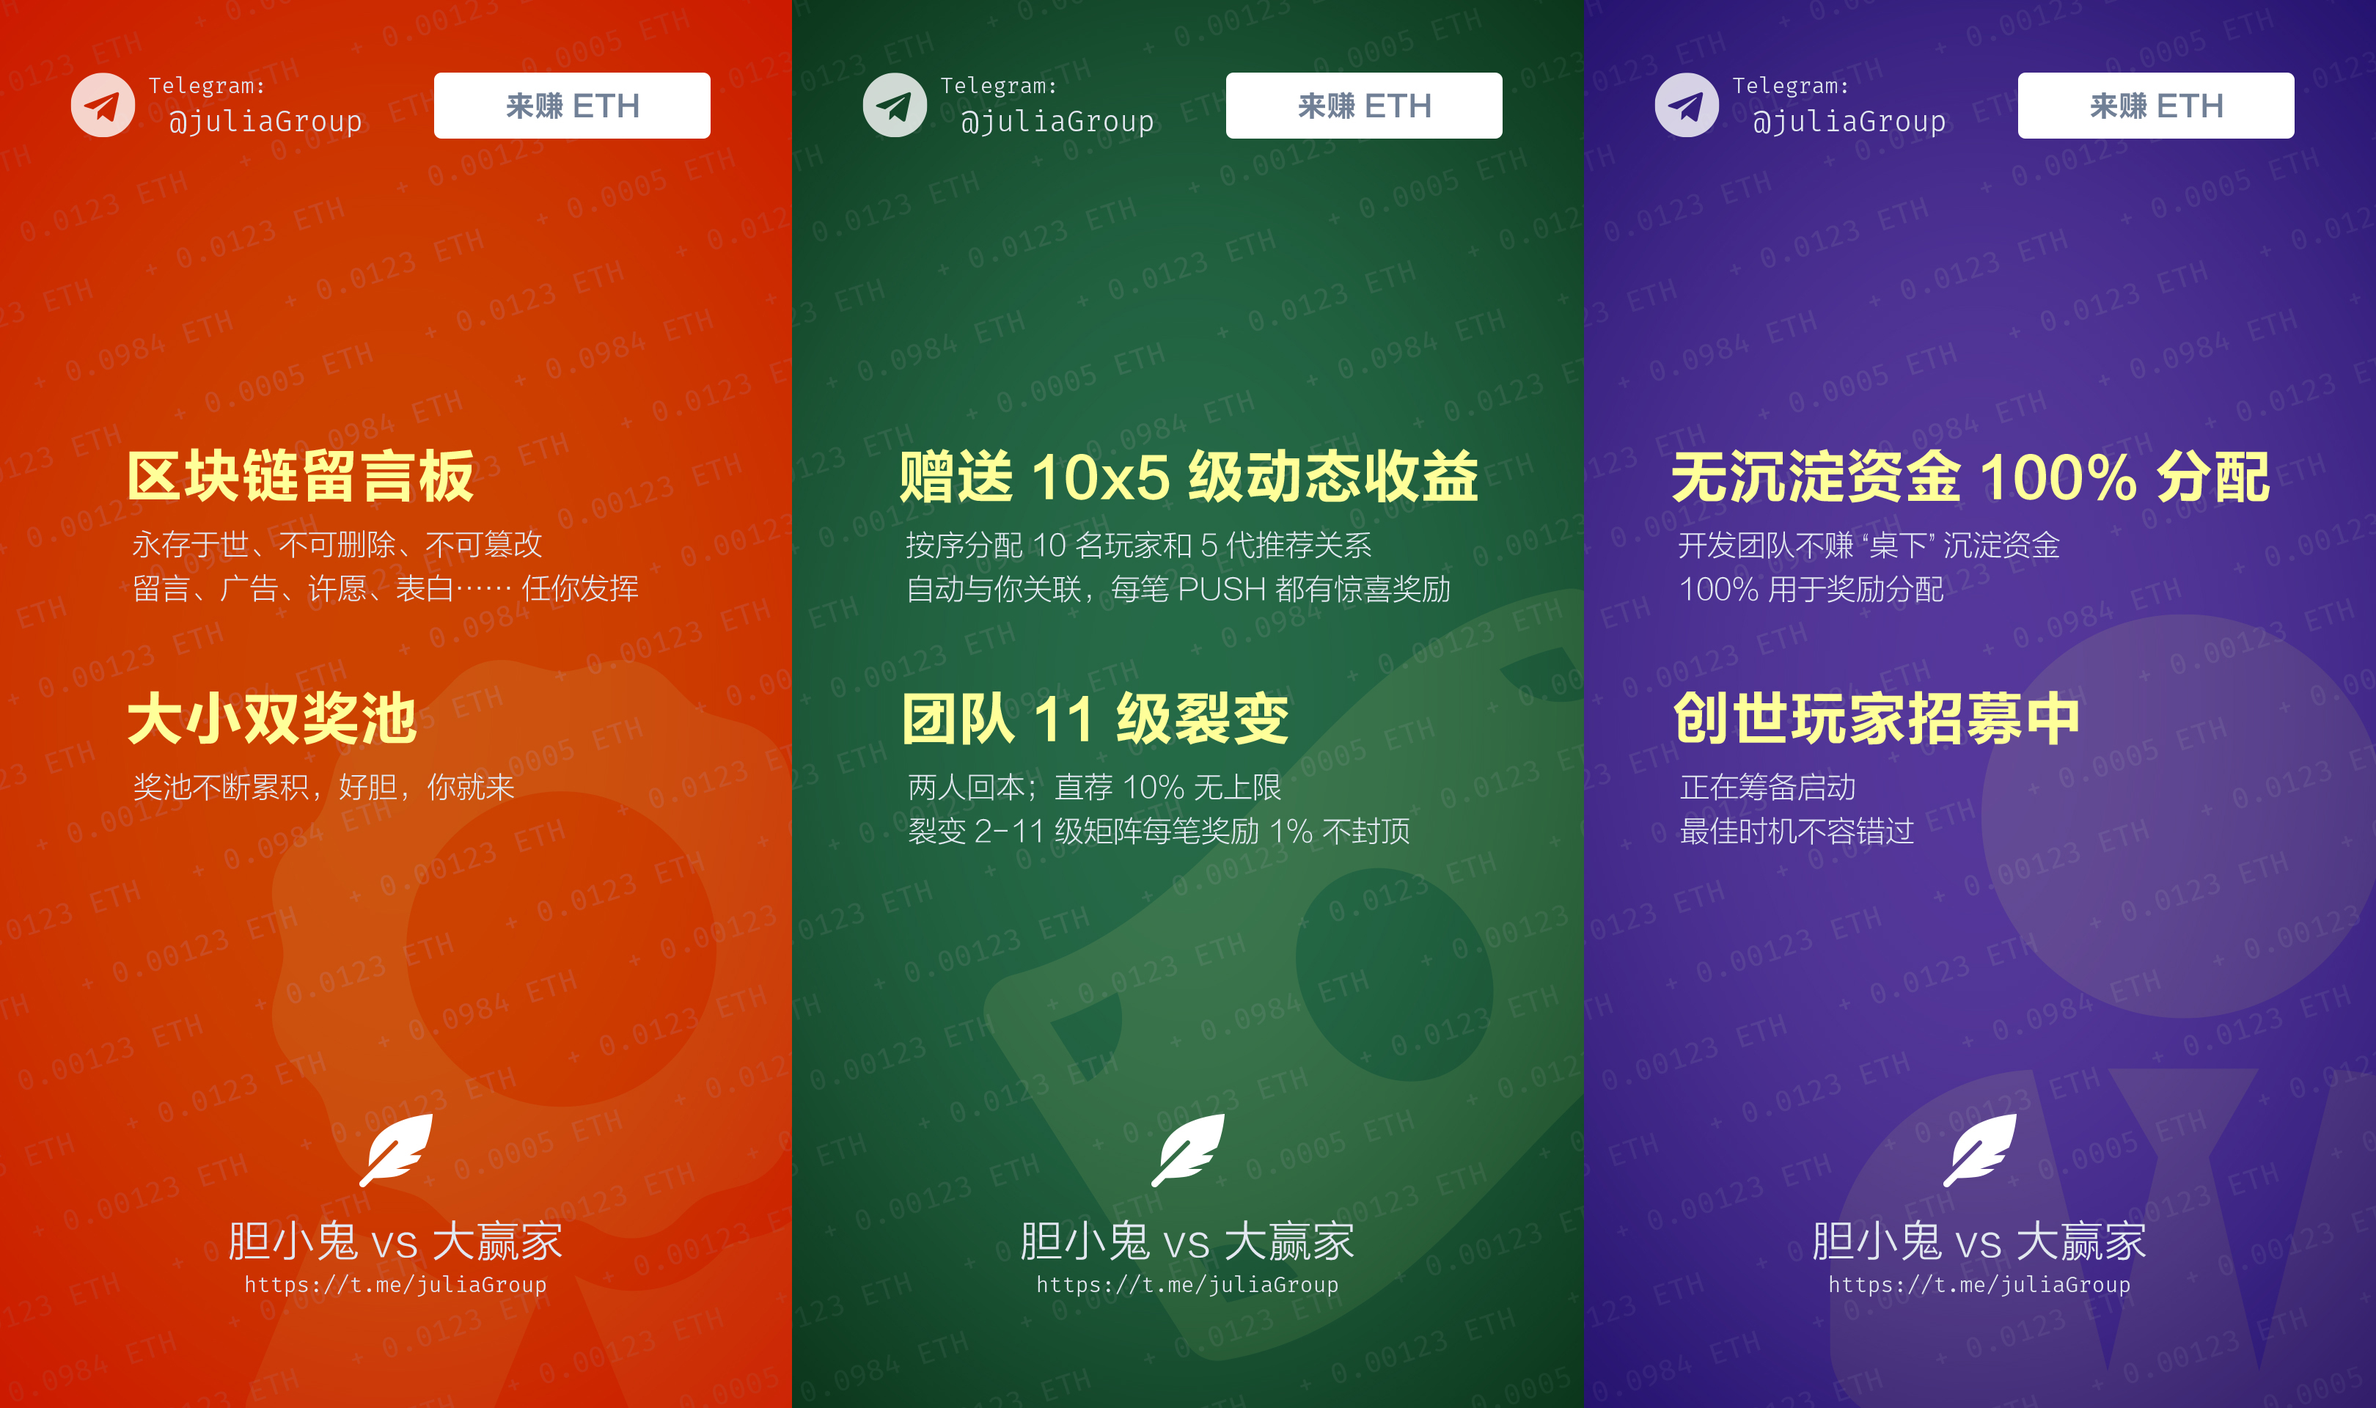
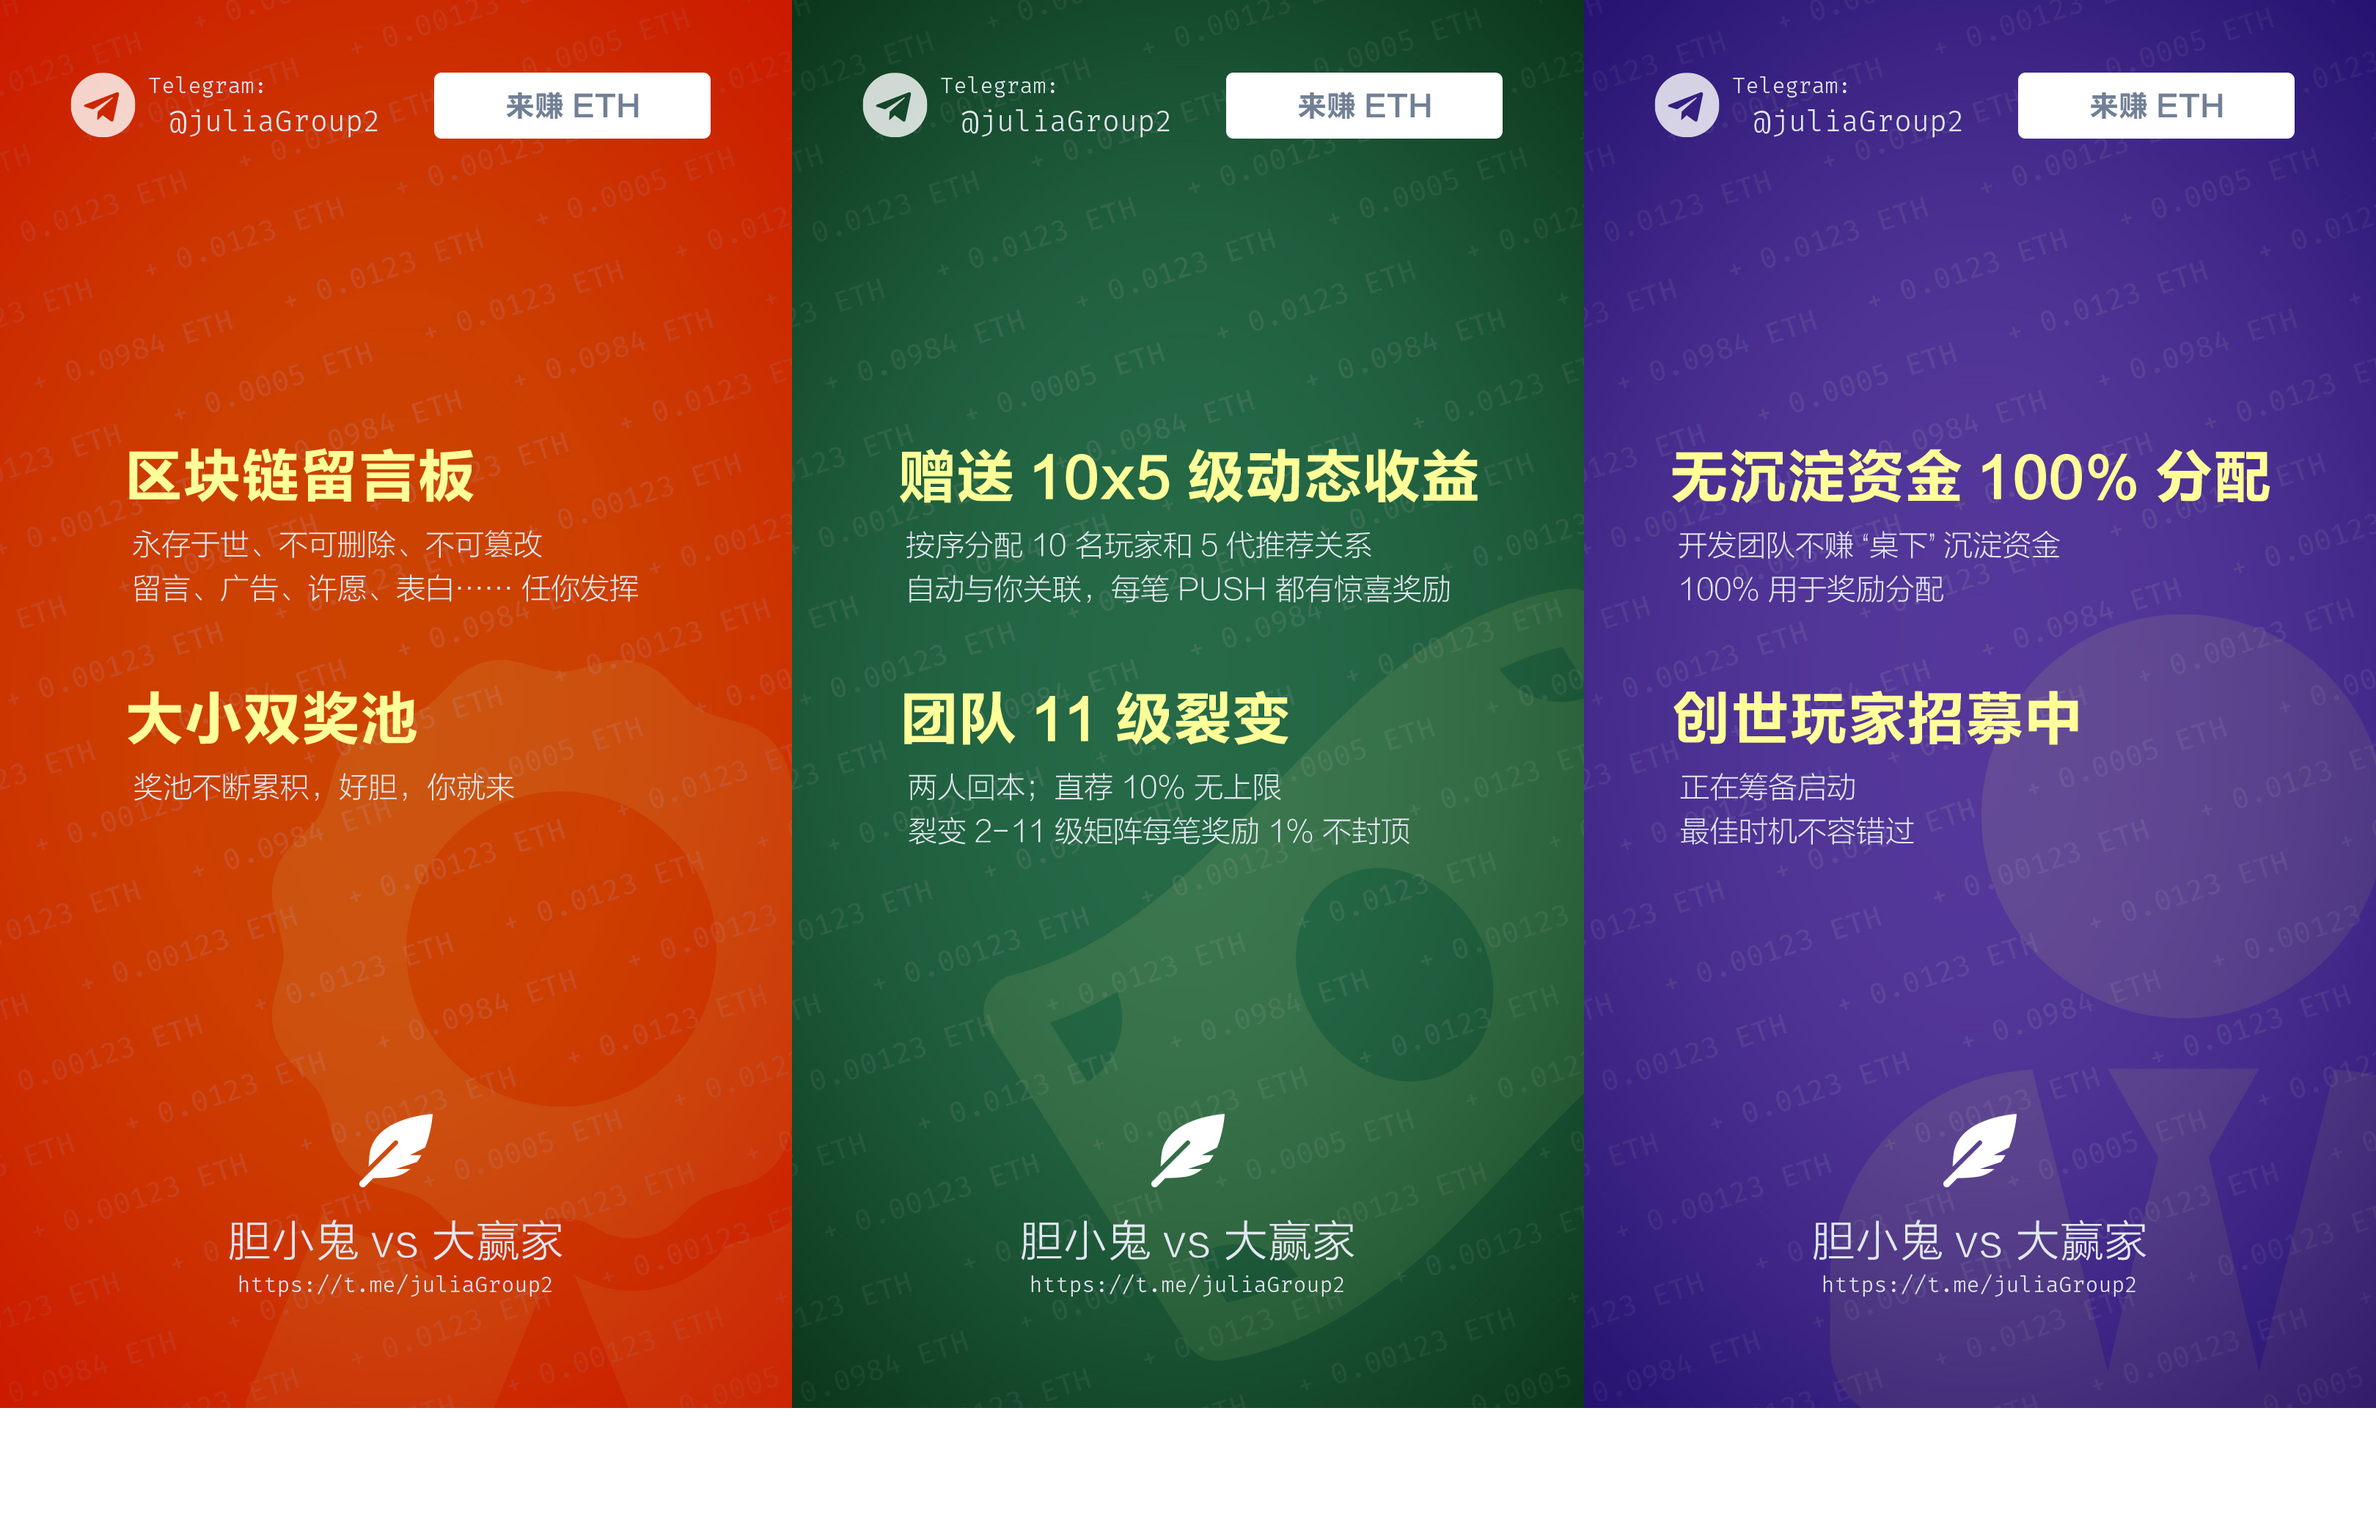
updated: ad

diff --git a/ad.md b/ad.md
@@ -6,30 +6,37 @@ tagline: 定案后再开始投放
 
 ## 海报
 
-![pop3in1](/assets/pops/pop3in1b.jpg)
+![pop3in1](/assets/pops/pop3in1b.jpg?v=200509)
 
-上边三色加底字是一个图片整体。
+上边三色海报和一行黑字是一个图片海报整体
 
 点右键复制图片，就可以去 Telegram 里粘贴发送了
+
+右健“图片另存为”也可以把它存下来
 
 
 
 ## 文本
 
 ```text
+《胆小鬼 vs 大赢家》
+不需投资、钱包 ETH 即时入账
+
+☘ 不推广？
+每人赠送：坐享 10 位玩家 x5 级动态收益
+
+🎩 主动邀请？
+团队 11 级裂变奖励，可重复，不封顶
+
 🔥🔥🔥
-2020 最赚钱的区块链游戏
-不需投资
-钱包 ETH 即时入账
+启动在即，前 100 玩家联盟招募中，入群来撩 👉 @juliaGroup2 👈
 
-1. 每人赠送：坐享 10 位玩家 x5 级动态收益
-2. 推广奖励：团队 11 级裂变奖励，不封顶
-3. 滚动累积：大小双奖池
-
-创世玩家招募中，欢迎入群来撩 @juliaGroup2
-
-YouTube 视频 https://youtu.be/m3ZEn1JzicY/c
+https://youtu.be/505sOS8tVPQ/o
 ```
 
-框内的文本复制完整，包括开头的 emoji 表情哦
+框内的文本复制完整
+
+## 群发前请发预览确认
+
+为避免沟通歧义， 安排群发之前，先图后文，发给我做预览确认。
 
